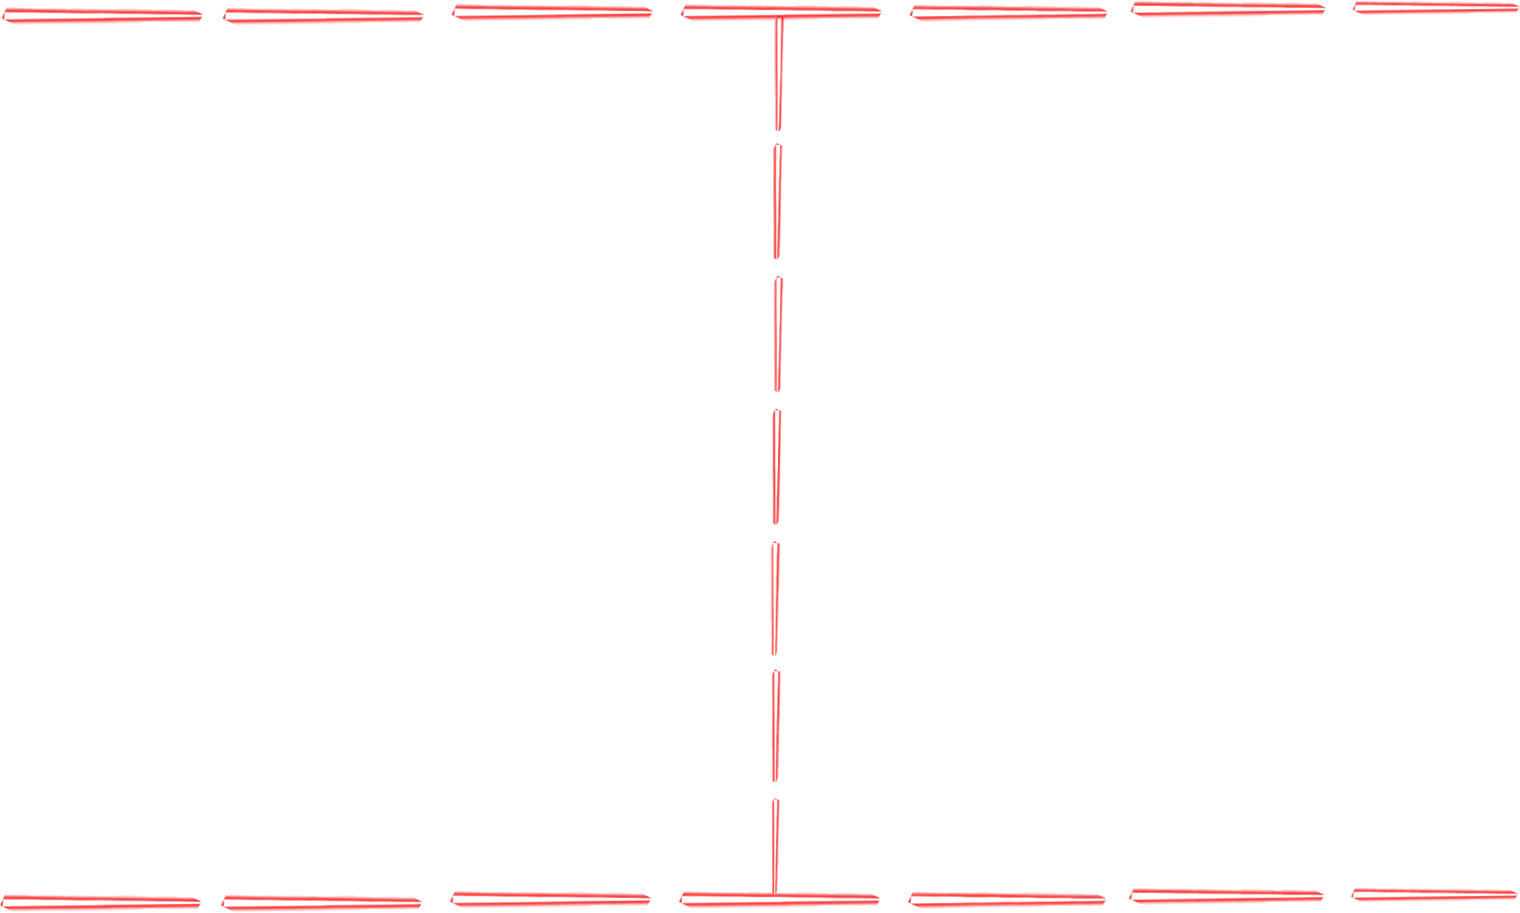
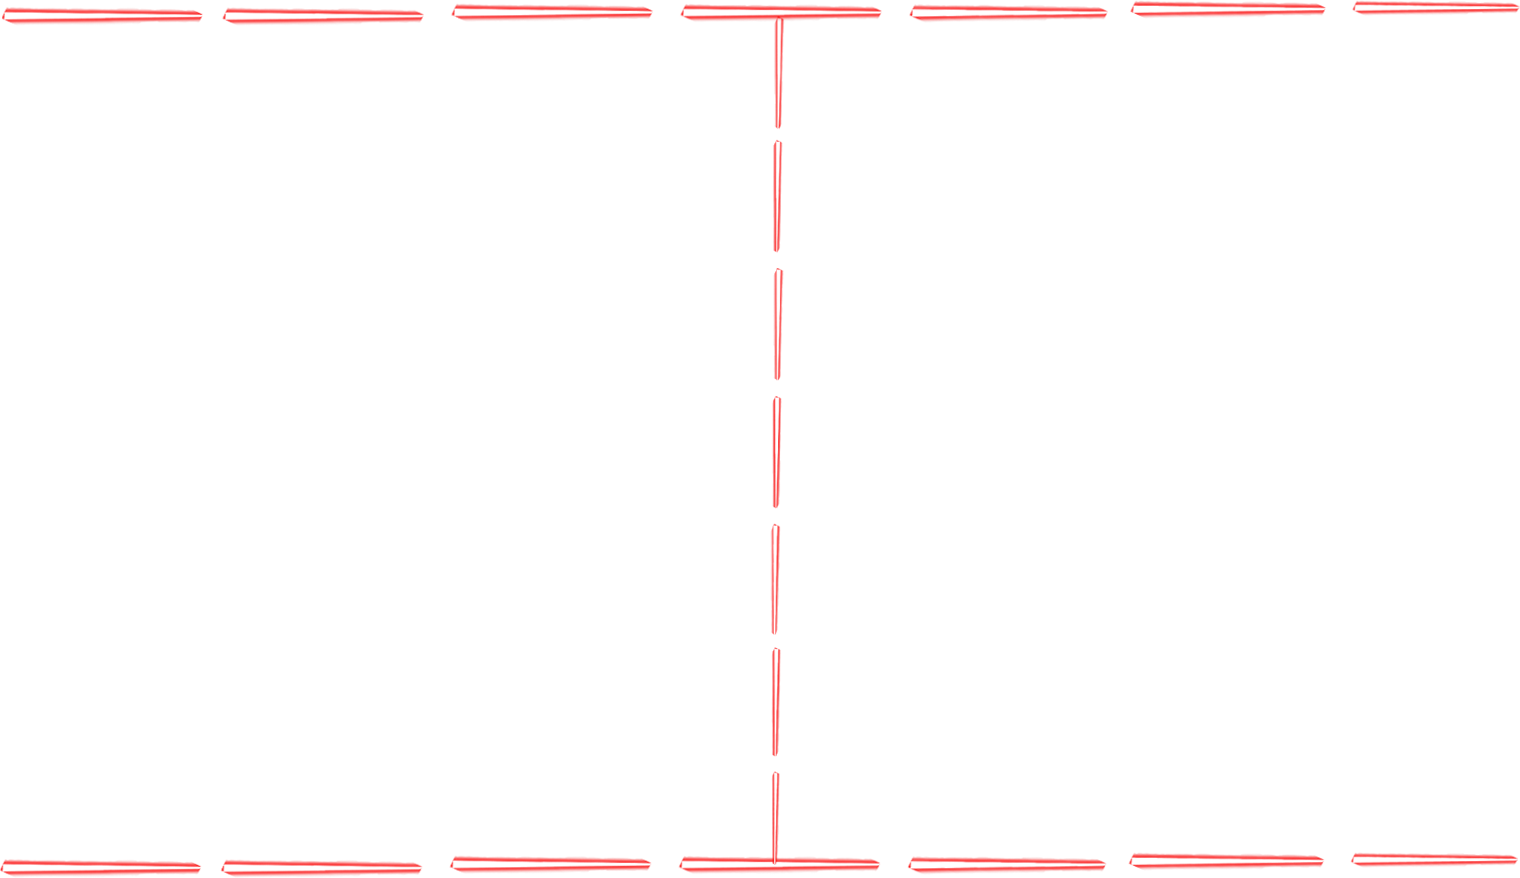
Add files via upload

diff --git a/styles/wimbledon.css b/styles/wimbledon.css
@@ -42,8 +42,6 @@ body{
     height: calc( 9/16 * 90vmin );
     flex-shrink: 0;
     border: 1px solid transparent;
-    border-top-color: var(--couleur-elements);
-    border-bottom-color: var(--couleur-elements);
     position: relative;
     transform-origin: center;
     max-height: 90vh;
@@ -82,7 +80,7 @@ body{
     width: 100%;
     height: 20vmin;
     background-image: url('./skins/wimbledon/gradin.png');
-    background-size: 110px;
+    background-size: 120px;
     display: flex;
     justify-content: space-around;
 }

diff --git a/README.md b/README.md
@@ -1,10 +1,10 @@
+# Encore un pong
 
- https://lmazenc34070.github.io/Pong_Info2D/
+https://davidmarsprof.github.io/pong-wimbledon/
 
+Pour jouer...
 
-Contrôles :
-
-### Rebelles
+### Rafael
 touches A / Q 
-### Empire
+### Roger
 touches P / M 
